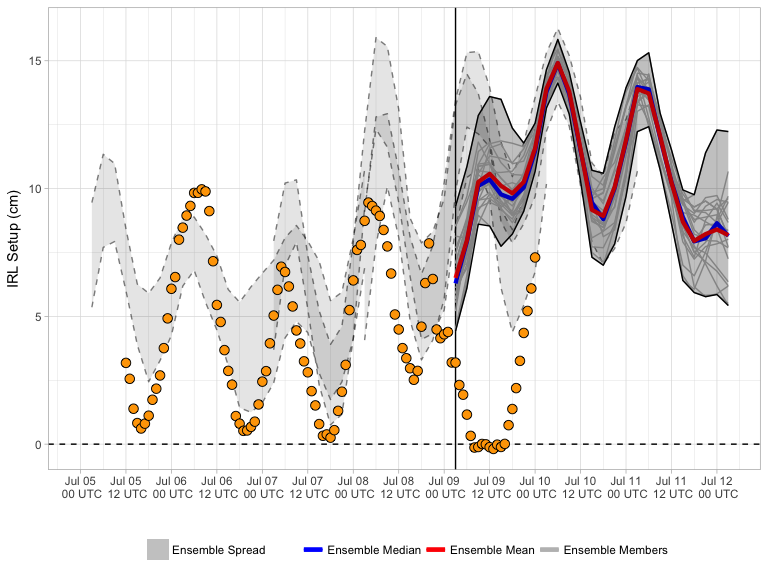
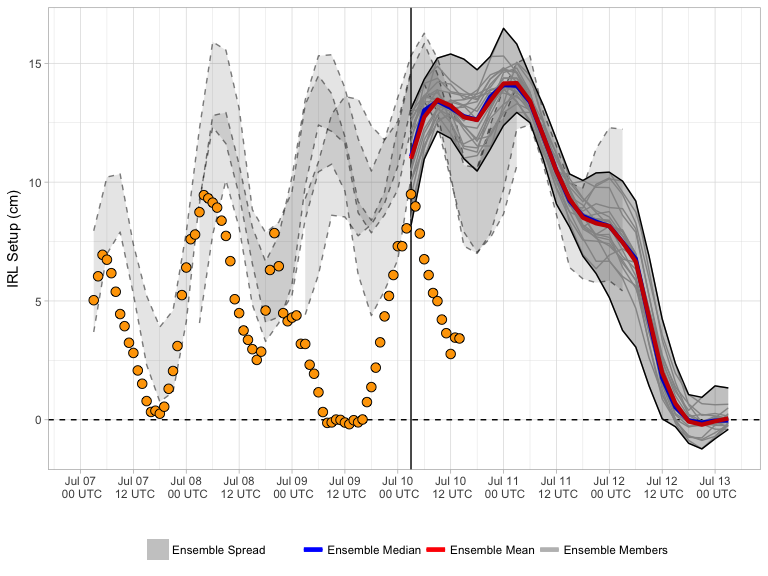
20170710 forecast update

diff --git a/docs/index.md b/docs/index.md
@@ -3,7 +3,7 @@ Current Forecast
 
 [![](img/raw_setup.png)](https://bhlmn.github.io/IRLSetup/img/raw_setup.png)
 
-> Forecast valid 2017-07-09 21:18:57.
+> Forecast valid 2017-07-10 10:53:55.
 
 Explanation
 -----------
@@ -17,7 +17,7 @@ star), and Sebastian, FL (white star). In general, southerly (northerly)
 winds result in increased water elevation near Titusville (Sebastian)
 and positive (negative) setup.
 
-The current (18 UTC 2017-07-08) 0.5° [Global Ensemble Forecast System
+The current (18 UTC 2017-07-09) 0.5° [Global Ensemble Forecast System
 (GEFS)](https://www.ncdc.noaa.gov/data-access/model-data/model-datasets/global-ensemble-forecast-system-gefs)
 mean and median forecasts of setup are represented by the red and blue
 curves, respectively. Ensemble spread from the current and three
